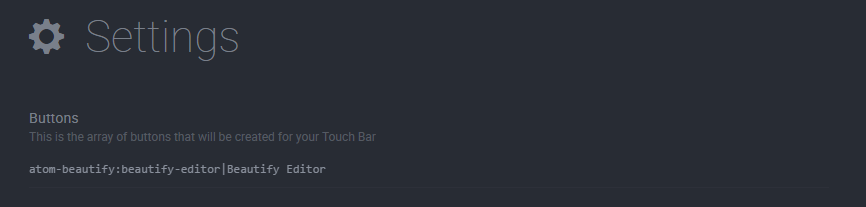
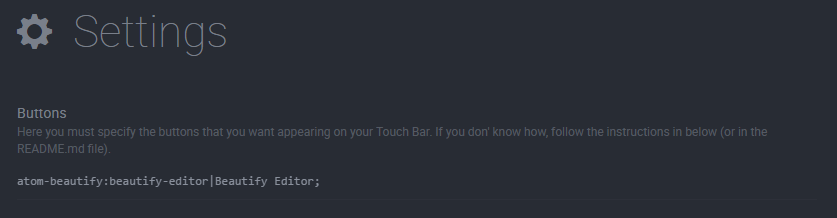
Tiny Update
- Replaced the Sample Configuration image with an update one
- Updated
the button labeler. Now, if the label of a button is blank in the
configuration, the Touch Bar will show the name of the action called
when pressed
- Added an author entry to package.json

Changed region(s): [[0.0, 0.4928, 0.9319, 0.7246], [0.0, 0.058, 0.2796, 0.2899], [0.0, 0.7826, 0.3728, 0.8696]]

diff --git a/lib/touch-bar-utility.js b/lib/touch-bar-utility.js
@@ -55,10 +55,20 @@ export default {
       config.forEach(function(packageAction) {
         let firstSplit = packageAction.split(':');
         let secondSplit = firstSplit[1].split('|');
+        let buttonLabel = secondSplit[1];
+
+        if(secondSplit[1] === undefined || jsonButton.buttonLabel === 'undefined'){
+          buttonLabel = secondSplit[1].split('-').map(function(word){
+            return word.charAt(0).toUpperCase() + word.substr(1);
+          });
+        } else {
+          buttonLabel = secondSplit[1];
+        }
+
         let jsonButton = {
           packageName: firstSplit[0],
           eventName: firstSplit[1],
-          buttonLabel: secondSplit[1]
+          buttonLabel: buttonLabel
         }
 
         button = new TouchBarButton({

diff --git a/README.md b/README.md
@@ -12,6 +12,6 @@ An Atom package that allows you to assign custom actions to Touch Bar buttons.
 
 ## Images
 ### Sample Configuration
-![The screenshot of the sample configuration](https://f.cloud.github.com/assets/69169/2290250/c35d867a-a017-11e3-86be-cd7c5bf3ff9b.gif)
+![The screenshot of the sample configuration](https://raw.githubusercontent.com/inakineitor/touch-bar-utility/master/images/sample-settings-capture.PNG)
 ### Touch Bar with Sample Configuration
 ![The screenshot of the Touch Bar with the sample configuration](https://f.cloud.github.com/assets/69169/2290250/c35d867a-a017-11e3-86be-cd7c5bf3ff9b.gif)

diff --git a/CHANGELOG.md b/CHANGELOG.md
@@ -1,2 +1,7 @@
 ## 0.1.0 - First Release
 *   First commit, so all current features were added
+
+## 0.2.0 - Tiny Update
+*   Replaced the Sample Configuration image with an update one
+*   Updated the button labeler. Now, if the label of a button is blank in the configuration, the Touch Bar will show the name of the action called when pressed
+*   Added an author entry to package.json

diff --git a/TODO.md b/TODO.md
@@ -1,3 +1,2 @@
 ## TODO
-*   Update the instruction images
-*   Update the label name adapter to prevent blank labels
+*   Add a Touch Bar screenshot with the Sample Configuration applied
